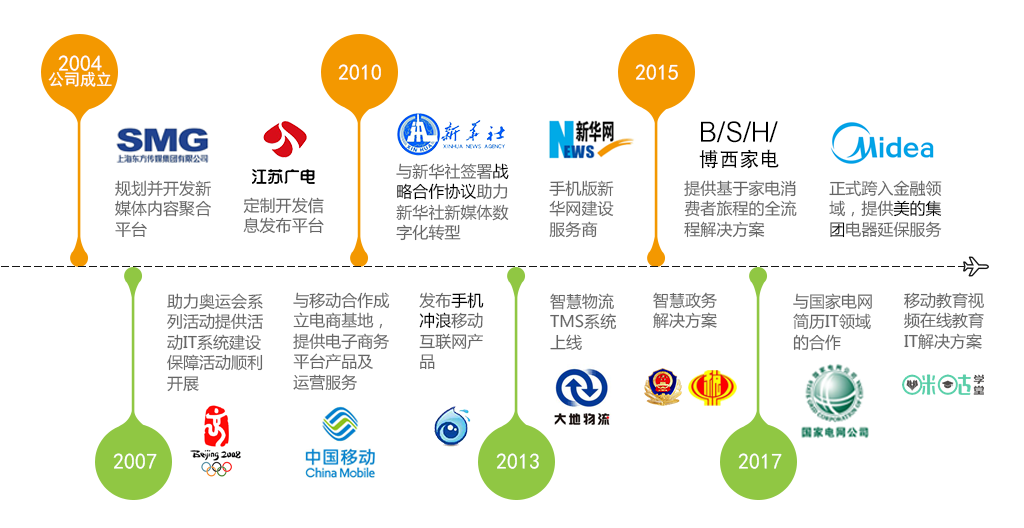
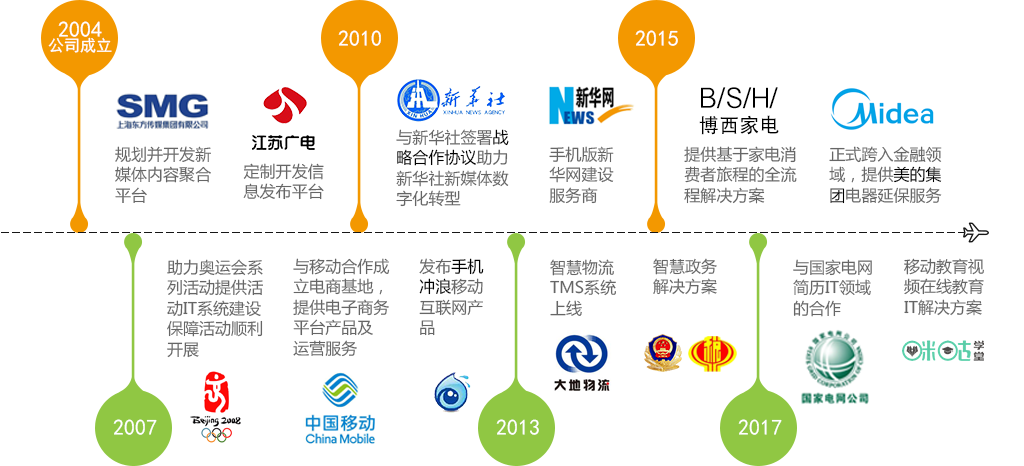
根据设计师要求，重新调整首页的图片和边距。

diff --git a/public/stylesheets/common.css b/public/stylesheets/common.css
@@ -147,28 +147,28 @@ body {
 .carousel-inner > .item > a > img, .carousel-inner > .item > img {
   width: 100%; }
 
+.separator-row {
+  width: 100%;
+  margin: 1.26rem 0 0.7818rem; }
+  .separator-row img {
+    display: block;
+    width: 100%; }
+
 .main-container .index-sections {
   width: 71.11%;
-  padding: 0;
   /*margin-top: 50px;*/ }
 
-.index-sections .one-section {
-  padding-bottom: 50px; }
-
 .index-sections .one-section:last-child {
-  padding-bottom: 100px; }
+  padding-bottom: 1.4rem; }
 
 .index-sections .title-row {
   margin-bottom: 50px; }
 
 .index-sections .one-section.intro-section {
-  padding-bottom: 0; }
+  padding: 1.4rem 0 0; }
   .index-sections .one-section.intro-section .index-intro-row {
     margin-left: 0;
     margin-right: 0; }
-
-.index-sections .one-section.intro-section .separator-row {
-  margin-top: 0; }
 
 .index-row-1 {
   margin-left: 0;
@@ -248,17 +248,6 @@ body {
 .index-sections .one-section .thumbnail {
   margin: 0;
   padding: 0; }
-
-.index-sections .one-section .separator-row {
-  width: 100%;
-  margin: 0.4rem 0;
-  height: 0.2rem;
-  overflow: hidden; }
-
-.index-sections .one-section .separator-row img {
-  display: block;
-  width: 100%;
-  height: 100%; }
 
 .index-sections .title1-img {
   width: 35px; }

diff --git a/public/stylesheets/common.scss b/public/stylesheets/common.scss
@@ -128,32 +128,31 @@ body {
 .carousel-inner>.item>a>img, .carousel-inner>.item>img {
   width: 100%;
 }
-
+.separator-row {
+  width: 100%;
+  margin: $indexSeparatorMargin1 0 $indexSeparatorMargin2;
+  img {
+    display: block;
+    width: 100%;
+  }
+}
 .main-container .index-sections {
   width: 71.11%;
-  padding: 0;
   /*margin-top: 50px;*/
 }
-.index-sections .one-section {
-  padding-bottom: 50px;
-}
 .index-sections .one-section:last-child {
-  padding-bottom: 100px;
+  padding-bottom: $indexMargin1;
 }
 .index-sections .title-row {
   margin-bottom: 50px;
 }
 
 .index-sections .one-section.intro-section {
-  padding-bottom: 0;
+  padding: $indexMargin1 0 0;
   .index-intro-row {
     margin-left: 0;
     margin-right: 0;
   }
-}
-
-.index-sections .one-section.intro-section .separator-row {
-  margin-top: 0;
 }
 
 //设置首页区块的各种样式
@@ -274,17 +273,6 @@ body {
 .index-sections .one-section .thumbnail {
   margin: 0;
   padding: 0;
-}
-.index-sections .one-section .separator-row {
-  width: 100%;
-  margin: 0.4rem 0;
-  height: 0.2rem;
-  overflow: hidden;
-}
-.index-sections .one-section .separator-row img {
-  display: block;
-  width: 100%;
-  height: 100%;
 }
 .index-sections .title1-img {
   width: 35px;

diff --git a/public/stylesheets/global.scss b/public/stylesheets/global.scss
@@ -11,6 +11,10 @@ $active-color: #999;
 $bgWidth: 87.78%;
 $visualWidth: 81.01%;
 
+$indexMargin1: 1.4rem;
+$indexSeparatorMargin1: 1.26rem;
+$indexSeparatorMargin2: 0.7818rem;
+
 //区块的title部分
 .title-row {
   margin-right: 0;
